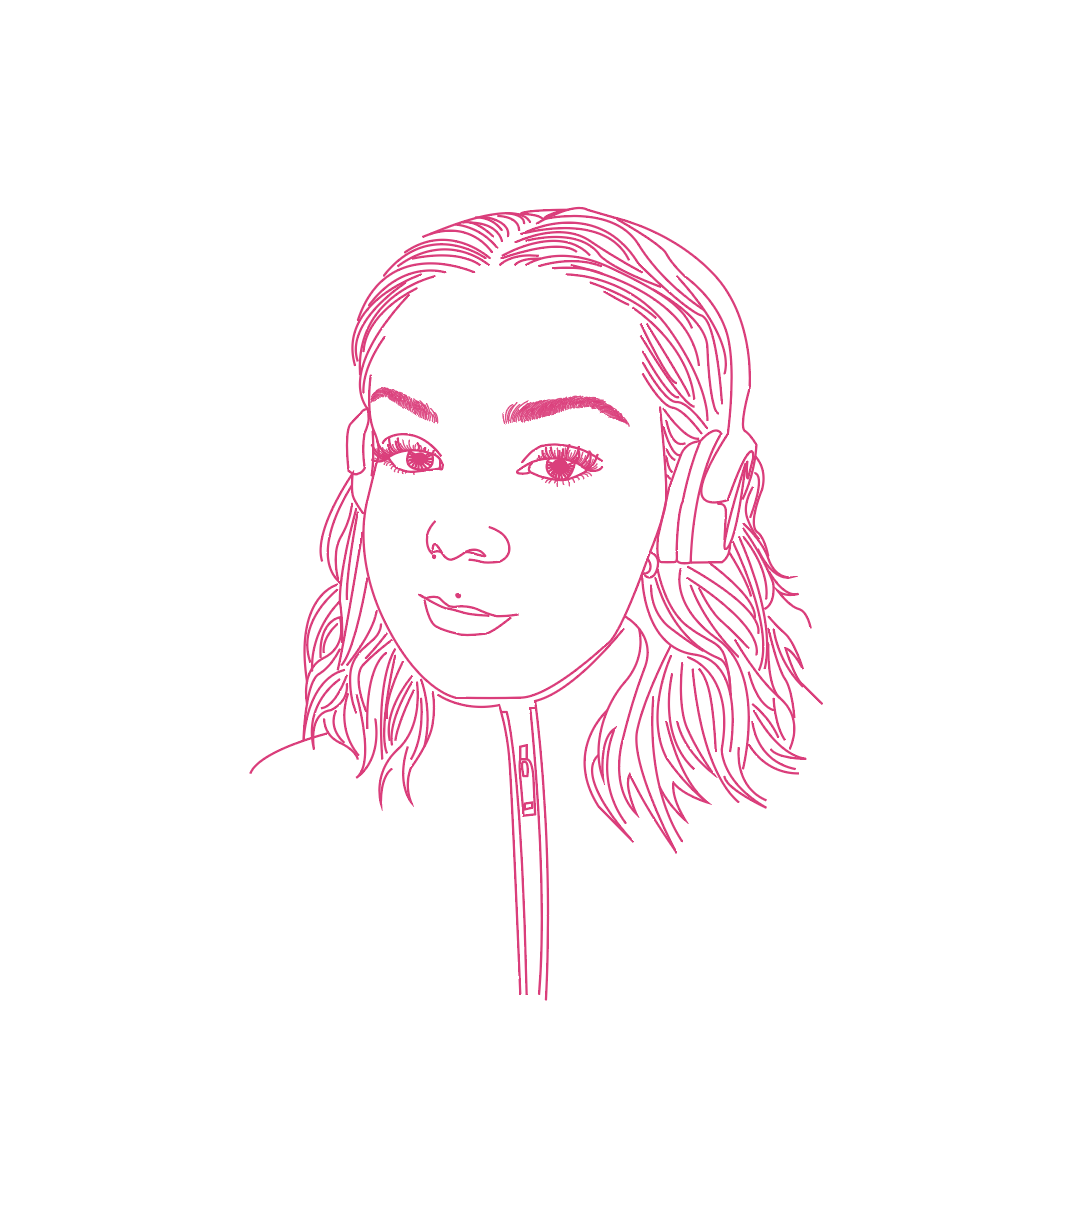
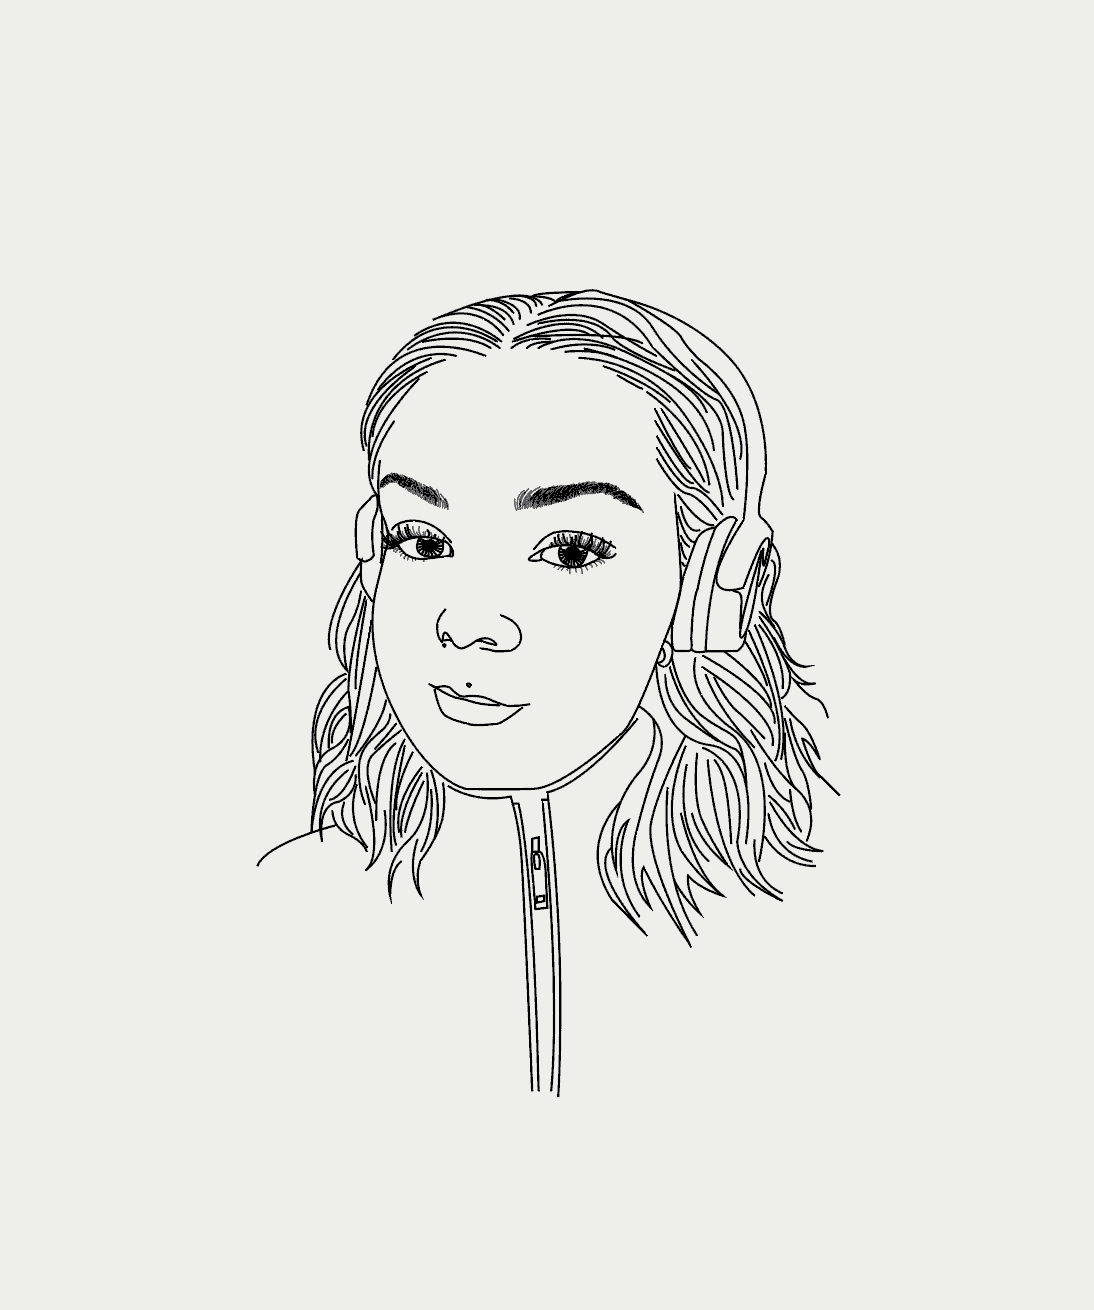
mere

Changed region(s): [[0.2467, 0.1524, 0.771, 0.8534]]

diff --git a/projekter.html b/projekter.html
@@ -86,11 +86,22 @@
         <a href="#projects-section" class="close-btn">&times;</a>
 
 
-        <img 
-            src="collage.jpg" 
-            alt="Produkt collage"
-            class="popup-collage"
-        >
+        <div class="slider">
+
+    <button class="slider-btn prev">‹</button>
+
+    <div class="slider-track">
+
+        <img src="projekt1.jpg" alt="">
+        <img src="produkt2.jpg" alt="">
+        <img src="produkt3.jpg" alt="">
+        <img src="produkt4.jpg" alt="">
+
+    </div>
+
+    <button class="slider-btn next">›</button>
+
+</div>
 
         <div class="popup-text">
 
@@ -259,6 +270,46 @@
     </div>
 
 </div>
+
+<script>
+
+const track = document.querySelector(".slider-track");
+
+const slides = document.querySelectorAll(".slider-track img");
+
+const nextBtn = document.querySelector(".next");
+
+const prevBtn = document.querySelector(".prev");
+
+let currentIndex = 0;
+
+function updateSlider() {
+
+    track.style.transform =
+        `translateX(-${currentIndex * 100}%)`;
+}
+
+nextBtn.addEventListener("click", () => {
+
+    if(currentIndex < slides.length - 1) {
+
+        currentIndex++;
+
+        updateSlider();
+    }
+});
+
+prevBtn.addEventListener("click", () => {
+
+    if(currentIndex > 0) {
+
+        currentIndex--;
+
+        updateSlider();
+    }
+});
+
+</script>
    
    <footer>
         <div>

diff --git a/style.css b/style.css
@@ -513,6 +513,59 @@ footer h2 {
     z-index: 999999;
 }
 
+.slider {
+    position: relative;
+    overflow: hidden;
+    width: 100%;
+}
+
+.slider-track {
+    display: flex;
+    transition: transform 0.4s ease;
+}
+
+.slider-track img {
+    width: 100%;
+    flex-shrink: 0;
+
+    max-height: 68vh;
+    object-fit: contain;
+}
+
+.slider-btn {
+    position: absolute;
+    top: 50%;
+    transform: translateY(-50%);
+
+    background: transparent;
+    border: none;
+
+    color: #ffffff;
+
+    font-size: 70px;
+    font-weight: 300;
+    font-family: "Inter Light";
+
+    cursor: pointer;
+
+    z-index: 10;
+
+    transition: opacity 0.3s ease;
+
+    line-height: 1;
+}
+
+.slider-btn:hover {
+    opacity: 0.5;
+}
+
+.prev {
+    left: 10px;
+}
+
+.next {
+    right: 10px;
+}
 
 .popup-collage {
     width: 100%;